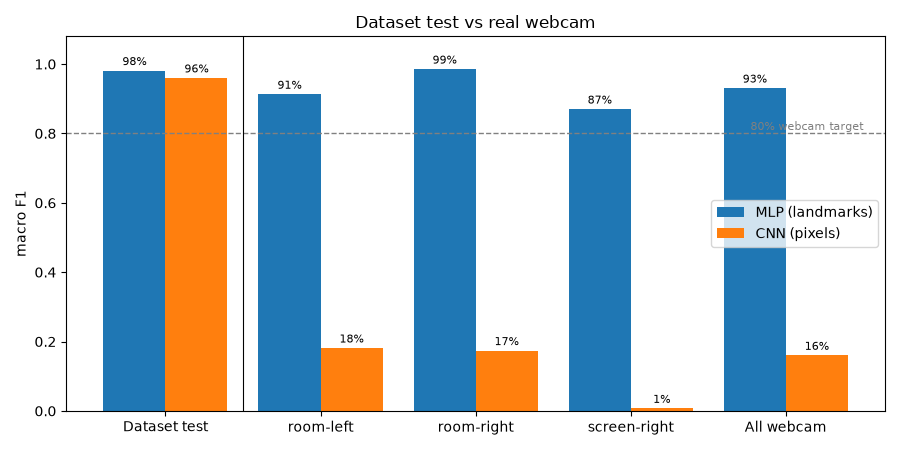
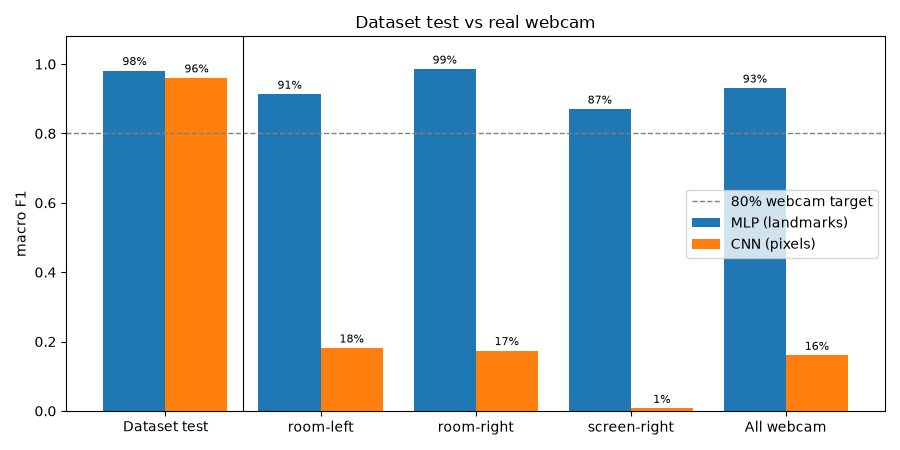
Add LaTeX report draft

Changed region(s): [[0.7467, 0.4044, 0.9956, 0.5911], [0.84, 0.2489, 0.9644, 0.3111]]

diff --git a/docs/report/report.tex b/docs/report/report.tex
@@ -1,0 +1,276 @@
+% CS461 final report. Build from this folder with:  latexmk -pdf report.tex
+% Figures come straight from ../../results/figures, so regenerated plots appear automatically.
+
+\documentclass[10pt,a4paper]{article}
+
+% --- Page and fonts -------------------------------------------------------
+\usepackage[margin=2cm]{geometry}   % narrower margins: the brief allows 5 pages
+\usepackage{lmodern}                % scalable Latin Modern fonts (load before fontenc, or MiKTeX makes bitmap fonts)
+\usepackage[T1]{fontenc}            % proper accented characters and hyphenation
+\usepackage[utf8]{inputenc}         % the .tex file itself is UTF-8
+\usepackage{microtype}              % subtle spacing tweaks: fewer bad line breaks
+
+% --- Content packages -----------------------------------------------------
+\usepackage{graphicx}               % \includegraphics
+\usepackage{booktabs}               % clean tables: \toprule \midrule \bottomrule
+\usepackage{subcaption}             % two figures side by side, each with its own caption; also \captionof
+\usepackage{enumitem}               % compact lists
+\setlist{nosep, leftmargin=*}
+\usepackage[hidelinks]{hyperref}    % clickable references and URLs, no coloured boxes
+\usepackage{xcolor}
+\usepackage{placeins}               % \FloatBarrier: keep tables/figures inside their own section
+
+\graphicspath{{../../results/figures/}}
+% LaTeX's defaults keep figures to at most 70% of a page top and need 20% text per page,
+% which left half-empty pages; a figure-heavy short report needs looser limits.
+\renewcommand{\topfraction}{0.9}
+\renewcommand{\bottomfraction}{0.8}
+\renewcommand{\textfraction}{0.07}
+\renewcommand{\floatpagefraction}{0.75}
+\setlength{\parskip}{3pt}
+
+\title{Real-time ASL Fingerspelling Practice with Hand Landmarks:\\
+       an MLP vs CNN Comparison on a Real Webcam}
+% Real name and student ID live in author.tex, which is gitignored (the repo is public).
+% Create it next to this file with one line:  \newcommand{\studentline}{Your Name, 6xxxxxxxxx}
+\IfFileExists{author.tex}{\input{author.tex}}{\newcommand{\studentline}{Student name, ID}}
+\author{CS461 Neural Networks and Deep Learning --- Final Project\\
+        \small \studentline \quad (\url{https://github.com/tecchuuu/asl-fingerspelling-trainer})}
+\date{November 2026}
+
+\begin{document}
+\maketitle
+
+% =========================================================================
+\section{Problem and business value}
+
+Learning to fingerspell takes a lot of repetitive drill: a learner forms a letter, an
+instructor checks it, and they repeat. That drill uses instructor time that would be better
+spent on teaching. This project builds a \textbf{practice tool, not a translator}: a web app
+that watches the learner's hand through a webcam and checks each letter in real time, so drill
+can happen without an instructor present.
+
+The scope is the \textbf{ASL alphabet} (no public Thai Sign Language dataset exists) and its
+\textbf{24 static letters}; J and Z require motion. The research question is whether
+\textbf{hand landmarks beat raw images}, in accuracy, size and speed, and above all on a
+\emph{real webcam} rather than the dataset's own test split. Targets from the proposal: macro
+F1 $\geq 90\%$ on the dataset test set, $\geq 80\%$ on a live webcam test, and $\leq 33$\,ms
+processing per frame.
+
+% =========================================================================
+\section{Data}
+
+The ASL Alphabet dataset~\cite{asl} has 3,000 photos per letter (72,000 for the 24 letters),
+recorded by few signers in one room. MediaPipe Hand Landmarker~\cite{mediapipe} extracts 21
+3-D landmarks per hand; it found a hand in 77.3\% of images on the first pass. Most failures
+were backlit (a dark hand against a bright window). Retrying the failures after brightening
+recovered 2.1\% with CLAHE but \textbf{43.0\% with gamma correction} ($\gamma=0.5$), giving
+\textbf{62,704 images (87.1\%)}, 1,788 (N) to 2,977 (F) per letter. Each recovered sample is
+flagged. The \texttt{nothing} class was dropped: it has no hand, so ``no hand detected'' plays
+its role in the app.
+
+\textbf{Data audit.} Checking the photos against an ASL dictionary showed that the dataset's
+\textbf{T is not standard ASL} (thumb sideways instead of tucked between the index and middle
+fingers). Signing the correct T, the final model accepted it \textbf{0 of 5 times} (reading it
+as A). K and P are minor variants that still generalise (4/5 and 5/5 accepted).
+
+% =========================================================================
+\section{Method}
+
+\textbf{Pipeline.} Webcam frame $\rightarrow$ MediaPipe (21 landmarks) $\rightarrow$
+normalisation $\rightarrow$ classifier $\rightarrow$ confidence gate $\rightarrow$ typed letter.
+
+\textbf{Normalisation.} The $x$ and $z$ coordinates are multiplied by the frame's aspect ratio
+(MediaPipe normalises $x$ and $y$ by different image sides), the wrist is subtracted, and
+everything is divided by the palm length (wrist to middle-finger knuckle), which unlike the
+bounding box does not change with finger pose. Rotation is deliberately \emph{not} normalised:
+orientation distinguishes letters (P/Q point down, G/H sideways). Without any training, a
+nearest-centroid classifier improves from \textbf{50.4\% to 85.4\%} with this normalisation.
+
+\textbf{Split and augmentation.} Frames are numbered in recording order and neighbours are
+near-duplicates (consecutive frames are $\sim$4$\times$ closer in landmark space than random
+pairs). Whole blocks of 100 frames therefore go to one split, 70/15/15 per letter (44,989 /
+9,132 / 8,583). A 1-nearest-neighbour classifier scores 98.8\% on a random split but 96.4\% on
+the block split, evidence that a random split leaks. Training data is doubled with mirrored
+copies ($x \rightarrow -x$) so left hands are covered.
+
+\textbf{Models.} \emph{Model B (main):} an MLP, 63 inputs $\rightarrow$ 256 $\rightarrow$ 128
+$\rightarrow$ 24, ReLU, dropout 0.3, 52,376 parameters. \emph{Model A (baseline):} a CNN on
+64$\times$64 hand crops cut around the landmarks, three Conv--BatchNorm--ReLU--MaxPool blocks
+(32/64/128 channels), global average pooling, 96,792 parameters. Both use the same split and
+the same final training settings, so the comparison isolates the \emph{input}: landmarks
+versus pixels.
+
+\textbf{From frames to letters.} A gate types a letter once the same prediction wins 10
+consecutive frames with confidence $\geq 0.8$, does not repeat it while it is held, and types
+it again when the hand slides sideways by $\geq 0.6$ palm lengths (how signers mark double
+letters). Because a closed-set classifier must label \emph{every} hand, a resting open hand was
+typed as F; a 25th class, \emph{other} (my recordings of non-letter hand poses), plus a rule
+that a thumb--index pinch cannot be ``other'' cut resting hands typing a letter from
+\textbf{69\% to 7.5\%} of frames.
+
+% =========================================================================
+\section{Model Tuning \& Optimization}
+
+The \textbf{baseline} is the first, untuned MLP (Adam, learning rate $10^{-3}$, batch 32, fixed
+rate, dropout 0.3, early-stopping patience 5): validation macro F1 96.45\%, validation loss
+0.1175. All runs use seed 42, the same split and early stopping on validation loss; the test
+set was not used for any choice.
+
+\textbf{Optimizers and batch size.} Adam~\cite{adam} and SGD with momentum 0.9 (learning rate
+$10^{-2}$) were each run with batch 32 and 64 (Table~\ref{tab:opt},
+Figure~\ref{fig:tuning}a). All four end within 0.25 F1 points, which is about the size of
+run-to-run noise, so neither optimizer is more accurate here. The difference is
+\textbf{convergence}: Adam reaches $\sim$94\% F1 by epoch 2--3, while SGD with batch 64 needs
+$\sim$8 epochs for that and 30 to reach its best, as expected from Adam's per-weight step sizes.
+Batch 64 gives visibly smoother validation curves than batch 32.
+
+\begin{table}[ht]
+\centering\small
+\begin{tabular}{llcccc}
+\toprule
+Optimizer & Batch & Val F1 & Val loss & Best epoch & Time \\
+\midrule
+Adam ($10^{-3}$) & 32 & 96.45\% & 0.1175 & 9 & 108\,s \\
+\textbf{Adam ($10^{-3}$)} & \textbf{64} & \textbf{96.60\%} & \textbf{0.1133} & 20 & 87\,s \\
+SGD + momentum ($10^{-2}$) & 32 & 96.37\% & 0.1204 & 15 & 88\,s \\
+SGD + momentum ($10^{-2}$) & 64 & 96.44\% & 0.1161 & 30 & 101\,s \\
+\midrule
+Adam, batch 64 + LR schedule & & \textbf{96.81\%} & \textbf{0.1013} & 44 & 157\,s \\
+\quad + dropout 0.5 (instead of 0.3) & & 96.51\% & 0.1165 & 45 & 158\,s \\
+\bottomrule
+\end{tabular}
+\caption{Tuning runs on the MLP (validation set). Top: optimizer $\times$ batch size. Bottom:
+follow-ups on the winner, with early-stopping patience 8.}
+\label{tab:opt}
+\end{table}
+
+\textbf{Learning-rate schedule.} The fixed-rate curves kept bouncing after epoch $\sim$10
+(validation loss 0.11--0.16), a sign of steps too large to settle. ReduceLROnPlateau (halve the
+rate after 2 epochs without improvement) lowered validation loss by \textbf{11\%}
+(0.1133 $\rightarrow$ 0.1013) and removed the late spikes (Figure~\ref{fig:tuning}b). A lesson
+from the first attempt: with early-stopping patience 5, training stopped one epoch after the
+first rate cut, before it could help; the early-stopping patience must exceed the scheduler's.
+Both runs were repeated with patience 8. With a fixed seed the two runs are identical until the
+first rate cut, so the gain comes from the schedule alone.
+
+\textbf{Regularisation.} With the schedule, training loss fell to 0.034 against 0.101 on
+validation, so stronger dropout looked worth trying. Dropout 0.5 made both worse (training loss
+rose to 0.078): dropping half the units of a small 256/128 network underfits. Dropout 0.3 was
+kept, together with early stopping.
+
+\textbf{Before $\rightarrow$ after.} Validation F1 96.45\% $\rightarrow$ \textbf{96.81\%};
+validation loss 0.1175 $\rightarrow$ \textbf{0.1013} ($-14\%$). Tuning mainly improved
+convergence and stability; the remaining errors come from the data (M/N, Q/P), not the
+optimizer. The CNN was trained once with the final MLP settings (236\,s per epoch on CPU,
+2.5\,h in total).
+
+\begin{figure}[ht]
+\centering
+\begin{subfigure}{0.8\textwidth}
+  \includegraphics[width=\linewidth]{optimizer_comparison.png}
+  \caption{Adam vs SGD+momentum, batch 32 vs 64.}
+\end{subfigure}\\[6pt]
+\begin{subfigure}{0.8\textwidth}
+  \includegraphics[width=\linewidth]{schedule_dropout.png}
+  \caption{Fixed rate vs LR schedule; dropout 0.3 vs 0.5.}
+\end{subfigure}
+\caption{Validation loss (left) and macro F1 (right) per epoch for the tuning runs.}
+\label{fig:tuning}
+\end{figure}
+
+% =========================================================================
+\section{Results}
+
+\textbf{Dataset test set} (8,583 samples, evaluated once on the final models): the MLP reaches
+\textbf{98.1\%} macro F1 and the CNN 96.0\%, both above the 90\% target. The MLP has half the
+parameters and is 20$\times$ faster per sample (0.07 vs 1.43\,ms). The models fail on different
+letters: the MLP on M/N (thumb hidden under the fingers, so MediaPipe must guess hidden joints),
+the CNN on H$\leftrightarrow$G (two stacked fingers look like one in a 64$\times$64 crop).
+
+\textbf{Real webcam.} I recorded my own test set before looking at any webcam results: 24
+letters $\times$ 3 captures per session, in three conditions, 216 samples in total, never used
+for training. Table~\ref{tab:webcam} and Figure~\ref{fig:webcam} show the central result:
+\textbf{on the dataset the two models are 2 points apart; on a real webcam they are about 80
+points apart.} The CNN learned the appearance of one signer's room and collapses to chance level
+in a dark room (4.2\% accuracy, $1/24$), while the landmark MLP stays above the 80\% target in
+every condition. The CNN's 96\% on the dataset is not a training failure: the same scoring code
+gives it 97.7\% on dataset crops.
+
+\begin{figure}[ht]
+\centering
+\begin{minipage}[c]{0.43\textwidth}
+  \centering\small
+  \begin{tabular}{@{}lccc@{}}
+  \toprule
+  Condition & $n$ & MLP & CNN \\
+  \midrule
+  Room light, right hand & 72 & \textbf{98.6\%} & 17.4\% \\
+  Room light, left hand  & 72 & \textbf{91.3\%} & 18.1\% \\
+  Dark, right hand       & 72 & \textbf{87.0\%} & 0.8\% \\
+  \midrule
+  All webcam   & 216 & \textbf{93.1\%} & 16.0\% \\
+  \emph{Dataset test} & 8,583 & \emph{98.1\%} & \emph{96.0\%} \\
+  \bottomrule
+  \end{tabular}
+  \captionof{table}{Macro F1, webcam (one signer) vs dataset test, 24-letter models.}
+  \label{tab:webcam}
+\end{minipage}\hfill
+\begin{minipage}[c]{0.55\textwidth}
+  \centering
+  \includegraphics[width=\linewidth]{webcam_vs_dataset.png}
+  \caption{Dataset test vs real webcam per session; dashed line: 80\% target.}
+  \label{fig:webcam}
+\end{minipage}
+\end{figure}
+
+On the webcam the MLP's main weakness is Q$\rightarrow$P (6 of 9 Q's): both point down, and my
+camera is mounted high, looking down, an angle the dataset does not have. The left hand costs
+7 points (mirroring mostly works) and darkness 12. \textbf{Speed:} the full pipeline takes
+\textbf{10.8\,ms per frame} (median; 13.2\,ms at the 95th percentile) on a laptop CPU, against
+a 33\,ms target; MediaPipe is 98\% of that and the MLP 0.25\,ms. \textbf{Browser vs Python:}
+the web app runs MediaPipe in the browser; on 26 frames of all 24 letters it gave the same
+letter as Python every time, with landmarks a median 3\,px apart.
+
+\FloatBarrier  % results tables and figures must appear before the next section
+% =========================================================================
+\section{Application and business results}
+
+The web app (React + FastAPI) has a Learn page, Practice by category, an Exam mode scored on the
+first try, free spelling, a learner progress page, and a trainer dashboard. Every attempt is
+logged to SQLite. To illustrate the trainer view, I \textbf{simulated} a class of 20 learners over
+4 weeks: learner behaviour (skill, practice frequency, learning rate) is assumed, but each
+letter's recognition rate is \emph{measured} from the real app on my webcam test. In this
+simulation learners master a median of 19/24 letters and exam scores rise from 77\% to 83\%.
+The letters the class gets stuck on separate two problems a trainer would handle differently:
+\textbf{model limits} (O, Q, S, which the app often rejects) and \textbf{content gaps} (T and X,
+practised only $\sim$8--10 times per learner because they appear in no practice words).
+Estimating instructor time as practice hours divided by the drill-group size, the simulated
+class's 43.9 practice hours replace about 4.4 instructor hours for a group of 10 (about
+THB\,1,756 at an assumed THB\,400/h). All of these inputs are assumptions, adjustable on the
+dashboard.
+
+% =========================================================================
+\section{Limitations and future work}
+
+\begin{itemize}
+  \item \textbf{One signer} for the webcam test, and few signers in the training data; testing on
+        more signers is the next step.
+  \item The dataset's \textbf{T is non-standard}: re-record T with several signers and retrain.
+  \item The ``other'' class was trained on one camera angle and shifted O towards C (6 of 9 webcam
+        O's) while the average F1 hid it; per-letter checks are needed whenever the model changes.
+  \item Motion letters (J, Z) and fast continuous spelling need a sequence model (LSTM or CTC);
+        word-level signs need both hands. The pipeline would carry over to Thai Sign Language once
+        a dataset exists.
+\end{itemize}
+
+\begin{thebibliography}{9}
+\small
+\bibitem{asl} grassknoted. \emph{ASL Alphabet} dataset. Kaggle, 2018.
+  \url{https://www.kaggle.com/datasets/grassknoted/asl-alphabet}
+\bibitem{mediapipe} F.~Zhang, V.~Bazarevsky, A.~Vakunov, A.~Tkachenka, G.~Sung, C.-L.~Chang,
+  M.~Grundmann. \emph{MediaPipe Hands: On-device Real-time Hand Tracking}. arXiv:2006.10214, 2020.
+\bibitem{adam} D.~P.~Kingma, J.~Ba. \emph{Adam: A Method for Stochastic Optimization}. ICLR, 2015.
+\end{thebibliography}
+
+\end{document}

diff --git a/scripts/plot_webcam.py b/scripts/plot_webcam.py
@@ -28,8 +28,8 @@ def main():
     for offset, values, name in [(-0.2, mlp, "MLP (landmarks)"), (0.2, cnn, "CNN (pixels)")]:
         bars = ax.bar(x + offset, values, 0.4, label=name)
         ax.bar_label(bars, labels=[f"{v:.0%}" for v in values], fontsize=8, padding=2)
-    ax.axhline(0.8, color="grey", linestyle="--", linewidth=1)
-    ax.text(len(groups) - 0.5, 0.81, "80% webcam target", ha="right", fontsize=8, color="grey")
+    # In the legend rather than as text on the plot, where the bars would cover it
+    ax.axhline(0.8, color="grey", linestyle="--", linewidth=1, label="80% webcam target")
     ax.axvline(0.5, color="black", linewidth=0.8)
     ax.set_xticks(x, groups)
     ax.set(ylim=(0, 1.08), ylabel="macro F1", title="Dataset test vs real webcam")
